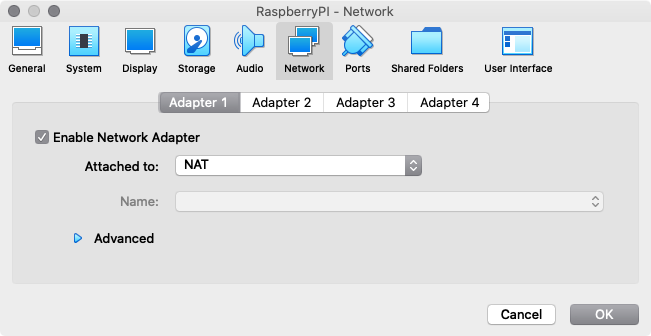
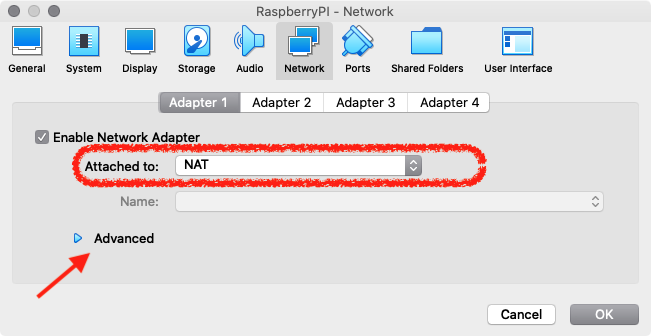
fix to bridge networking --- replaced by nat

Changed region(s): [[0.0922, 0.4167, 0.768, 0.5655], [0.0922, 0.744, 0.1536, 0.8333], [0.0614, 0.8333, 0.0922, 0.8929]]

diff --git a/pages/day1-2020.md b/pages/day1-2020.md
@@ -196,14 +196,37 @@ caption: "Select the Network separator"
 
 
 :steps:
-2. Change network "Adapter 1" to a "Bridged Adapter" connected to the interface your computer uses to connect to the Internet.
-For example, this can be a Wi-Fi or Ethernet interface.
-Other connectivity options exist but this is the easiest for our purposes.
+2. Change network "Adapter 1" so that it is "Attached to:" "NAT", as seen in the figure below.
+This will create a local network in your computer (host), through which the virtual machine will connect to the Internet.
 
 ---
 type: figure
-source: figures/vbox2020/vbox-settings4.png
+source: figures/vbox2020/vbox-settings3.png
 caption: "Configure the correct network interface for your system"
+---
+
+
+:steps:
+3. We need one extra configuration to setup our network. Click on `Advanced`, followed by `Port Forwarding` and add a new entry by clicking on the green icon on the right side of the window.
+
+---
+type: figure
+source: figures/vbox2020/vbox-settings5.png
+caption: "Enter the port forwarding configurations and add a new rule"
+---
+
+
+:steps:
+4. Because the new virtual network is "hidden" from our host machine, we want to create a rule that allows us to connect to our virtual machine. In particular, we will want data packets sent to port 2222 in our host machine to be forwarded to port 22 in our VM. Create a rule shown below and press `OK`.
+
+:tip:
+A __port__ is like a door to access different applications. An __IP__ is like the address to an apartment block with multiple doors.
+
+
+---
+type: figure
+source: figures/vbox2020/vbox-settings7.png
+caption: "Port forwarding rule for ssh connectivity "
 ---
 
 
